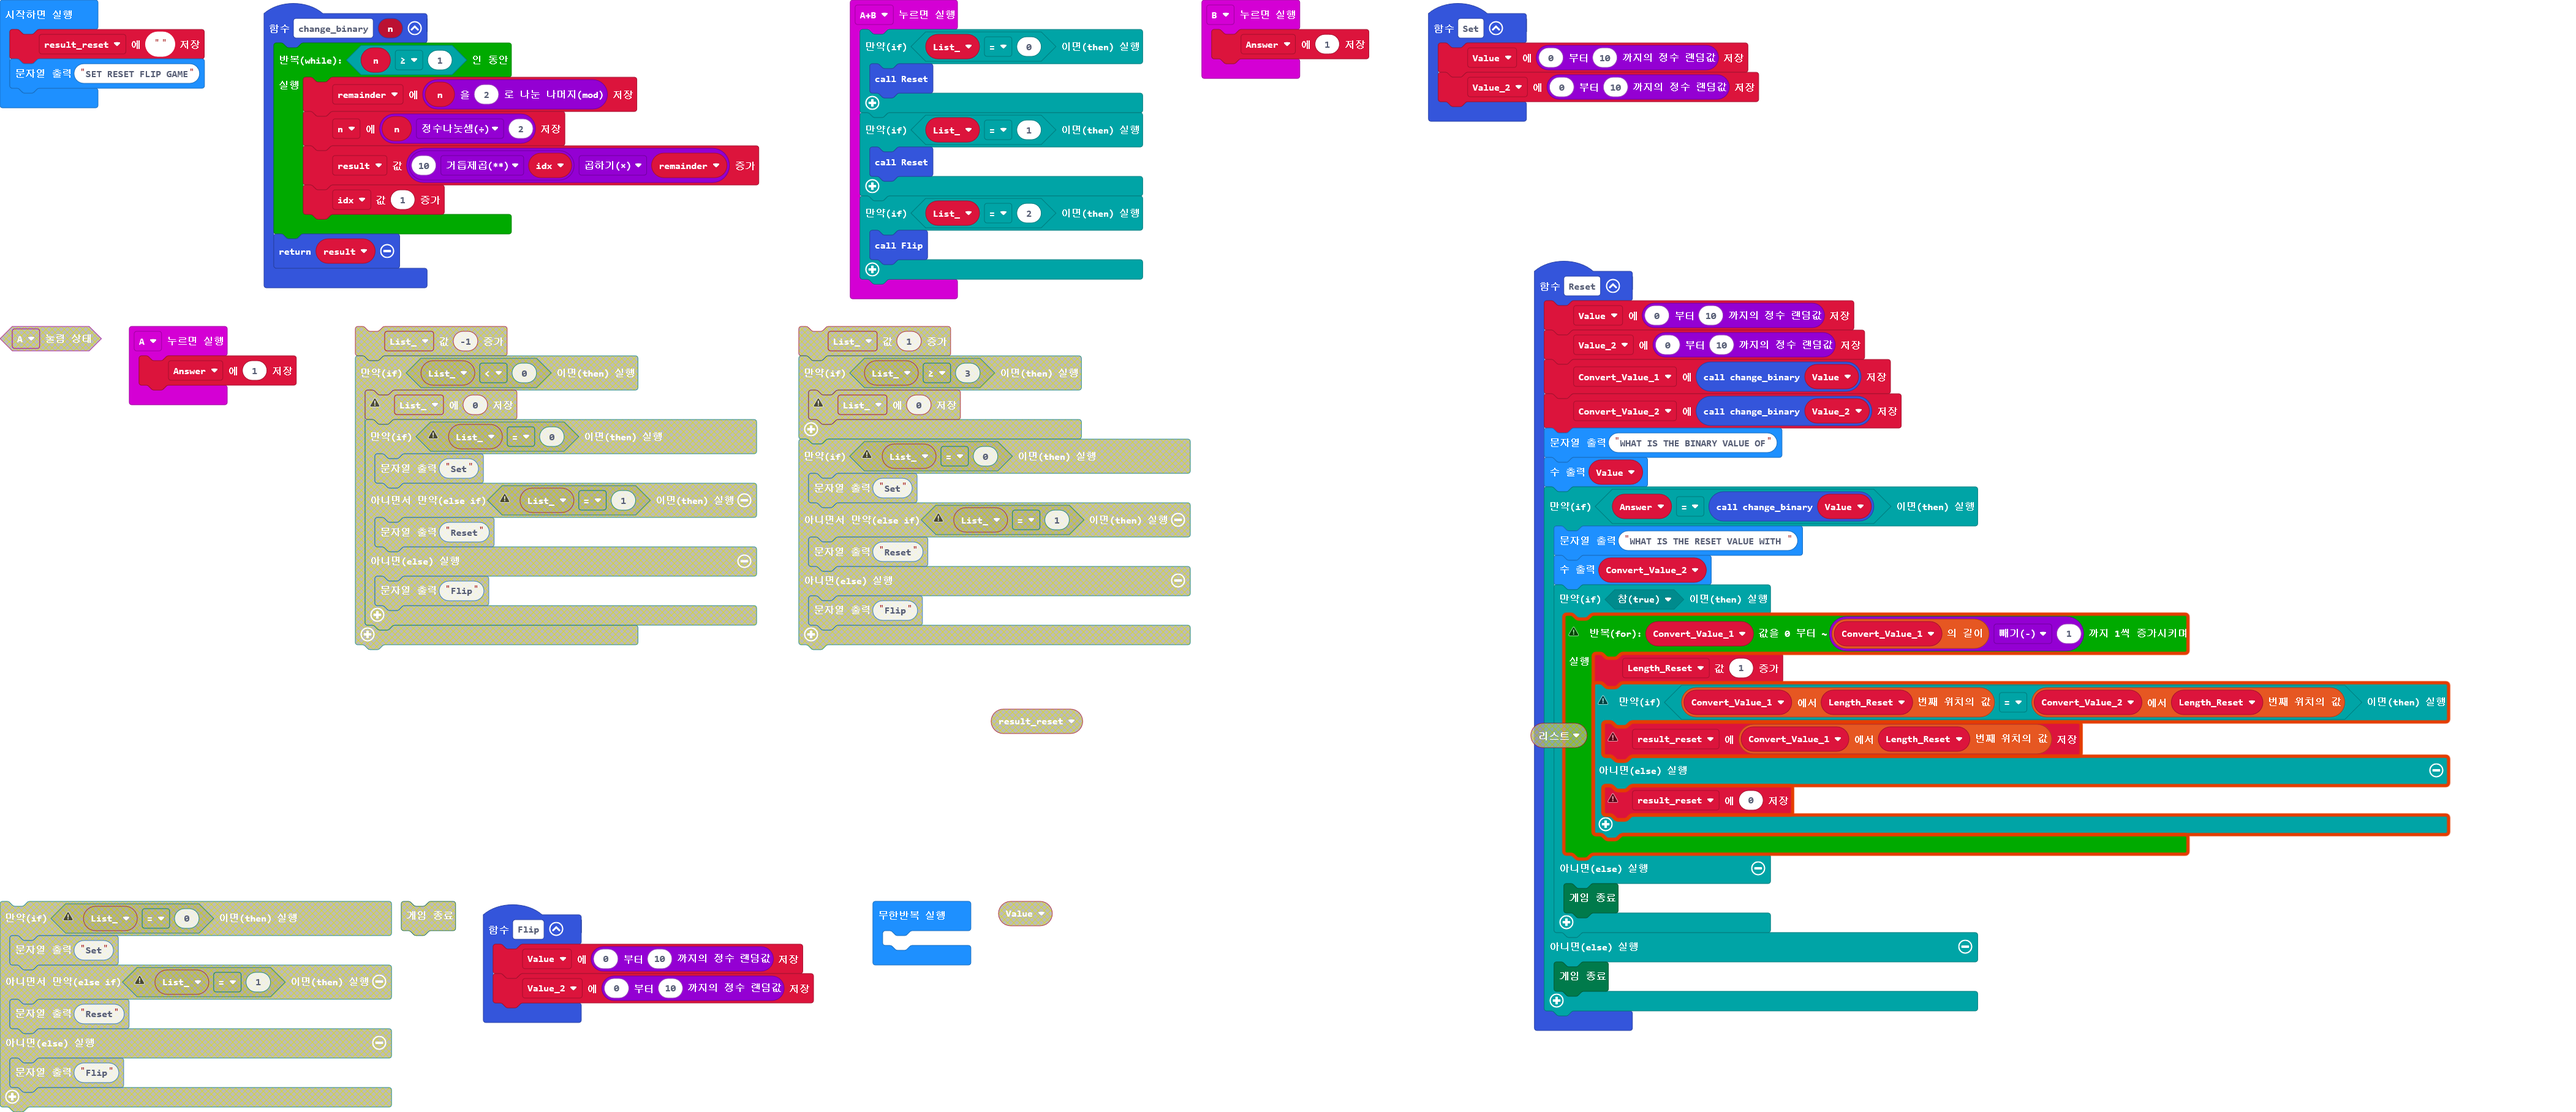
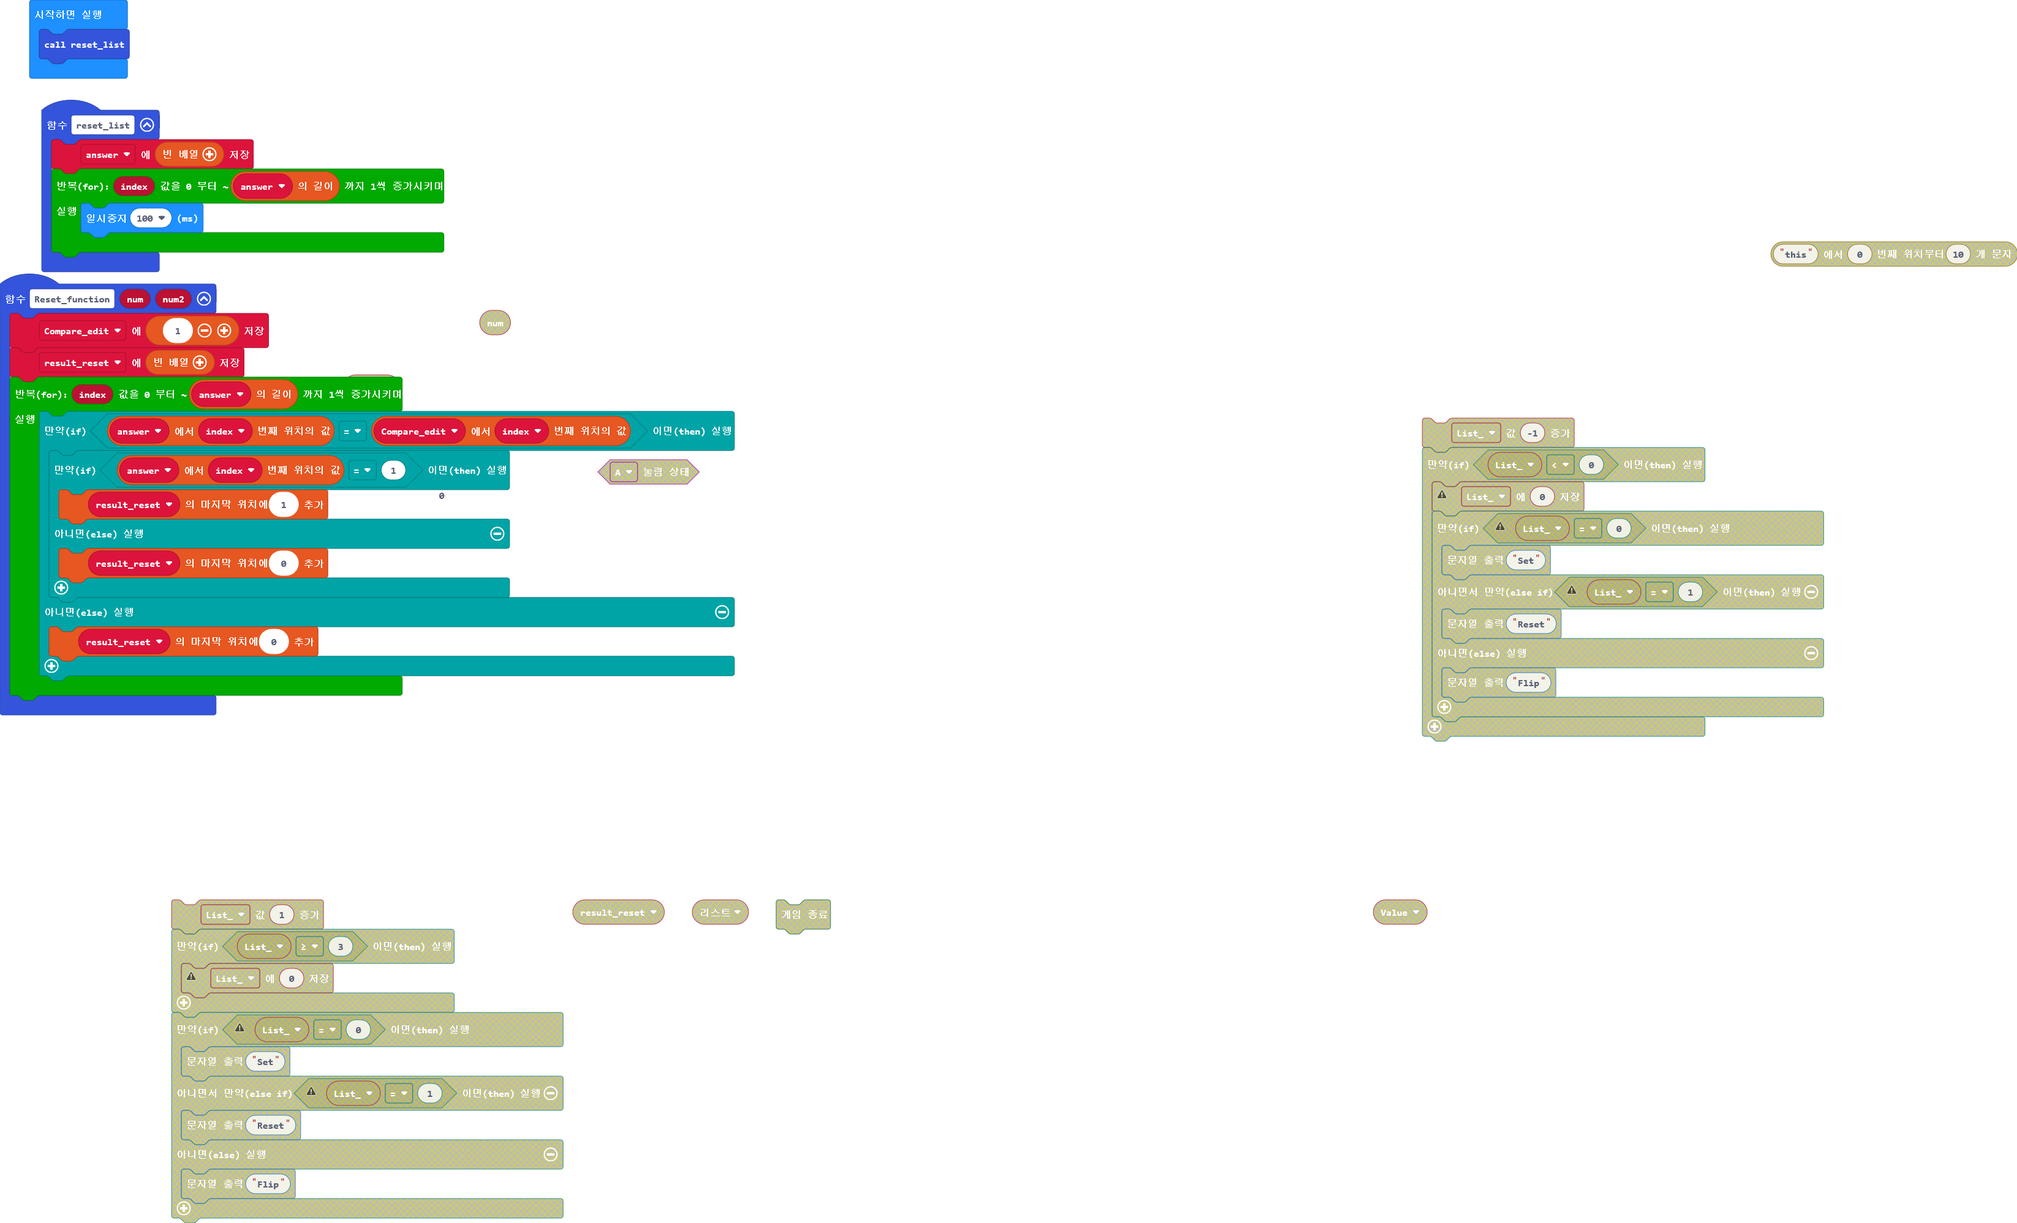
Reset_function / edit the values in the function

diff --git a/main.ts b/main.ts
@@ -1,77 +1,25 @@
-input.onButtonPressed(Button.A, function () {
-    Answer = 1
-})
-function change_binary (n: number) {
-    while (n >= 1) {
-        remainder = n % 2
-        n = Math.idiv(n, 2)
-        result += 10 ** idx * remainder
-        idx += 1
+function reset_list () {
+    answer = []
+    for (let index = 0; index <= answer.length; index++) {
+        basic.pause(100)
     }
-    return result
 }
-input.onButtonPressed(Button.AB, function () {
-    let List_ = 0
-    if (List_ == 0) {
-        Reset()
-    }
-    if (List_ == 1) {
-        Reset()
-    }
-    if (List_ == 2) {
-        Flip()
-    }
-})
-input.onButtonPressed(Button.B, function () {
-    Answer = 1
-})
-function Flip () {
-    Value = randint(0, 10)
-    Value_2 = randint(0, 10)
-}
-function Reset () {
-    Value = randint(0, 10)
-    Value_2 = randint(0, 10)
-    Convert_Value_1 = change_binary(Value)
-    Convert_Value_2 = change_binary(Value_2)
-    basic.showString("WHAT IS THE BINARY VALUE OF")
-    basic.showNumber(Value)
-    if (Answer == change_binary(Value)) {
-        basic.showString("WHAT IS THE RESET VALUE WITH ")
-        basic.showNumber(Convert_Value_2)
-        if (true) {
-            for (let Convert_Value_1 = 0; Convert_Value_1 <= Convert_Value_1.length - 1; Convert_Value_1++) {
-                Length_Reset += 1
-                if (Convert_Value_1[Length_Reset] == Convert_Value_2[Length_Reset]) {
-                    result_reset = Convert_Value_1[Length_Reset]
-                } else {
-                    result_reset = 0
-                }
+function Reset_function (num: number, num2: number) {
+    Compare_edit = [1]
+    result_reset = []
+    for (let index = 0; index <= answer.length; index++) {
+        if (answer[index] == Compare_edit[index]) {
+            if (answer[index] == 1) {
+                result_reset.push(1)
+            } else {
+                result_reset.push(0)
             }
         } else {
-            game.gameOver()
+            result_reset.push(0)
         }
-    } else {
-        game.gameOver()
     }
 }
-function Set () {
-    Value = randint(0, 10)
-    Value_2 = randint(0, 10)
-}
-let Length_Reset = 0
-let Convert_Value_2 = 0
-let Convert_Value_1 = 0
-let Value_2 = 0
-let Value = 0
-let idx = 0
-let result = 0
-let n = 0
-let remainder = 0
-let Answer = 0
-let result_reset = ""
-result_reset = ""
-basic.showString("SET RESET FLIP GAME")
-basic.forever(function () {
-	
-})
+let result_reset: number[] = []
+let Compare_edit: number[] = []
+let answer: number[] = []
+reset_list()

diff --git a/main.py b/main.py
@@ -1,77 +1,8 @@
-input.onButtonPressed(Button.A, function () {
-    Answer = 1
-})
-function change_binary (n: number) {
-    while (n >= 1) {
-        remainder = n % 2
-        n = Math.idiv(n, 2)
-        result += 10 ** idx * remainder
-        idx += 1
-    }
-    return result
-}
-input.onButtonPressed(Button.AB, function () {
-    let List_ = 0
-    if (List_ == 0) {
-        Reset()
-    }
-    if (List_ == 1) {
-        Reset()
-    }
-    if (List_ == 2) {
-        Flip()
-    }
-})
-input.onButtonPressed(Button.B, function () {
-    Answer = 1
-})
-function Flip () {
-    Value = randint(0, 10)
-    Value_2 = randint(0, 10)
-}
-function Reset () {
-    Value = randint(0, 10)
-    Value_2 = randint(0, 10)
-    Convert_Value_1 = change_binary(Value)
-    Convert_Value_2 = change_binary(Value_2)
-    basic.showString("WHAT IS THE BINARY VALUE OF")
-    basic.showNumber(Value)
-    if (Answer == change_binary(Value)) {
-        basic.showString("WHAT IS THE RESET VALUE WITH ")
-        basic.showNumber(Convert_Value_2)
-        if (true) {
-            for (let Convert_Value_1 = 0; Convert_Value_1 <= Convert_Value_1.length - 1; Convert_Value_1++) {
-                Length_Reset += 1
-                if (Convert_Value_1[Length_Reset] == Convert_Value_2[Length_Reset]) {
-                    result_reset = Convert_Value_1[Length_Reset]
-                } else {
-                    result_reset = 0
-                }
-            }
-        } else {
-            game.gameOver()
-        }
-    } else {
-        game.gameOver()
+function reset_list () {
+    answer = []
+    for (let index = 0; index <= answer.length; index++) {
+        basic.pause(100)
     }
 }
-function Set () {
-    Value = randint(0, 10)
-    Value_2 = randint(0, 10)
-}
-let Length_Reset = 0
-let Convert_Value_2 = 0
-let Convert_Value_1 = 0
-let Value_2 = 0
-let Value = 0
-let idx = 0
-let result = 0
-let n = 0
-let remainder = 0
-let Answer = 0
-let result_reset = ""
-result_reset = ""
-basic.showString("SET RESET FLIP GAME")
-basic.forever(function () {
-	
-})
+let answer: number[] = []
+reset_list()
